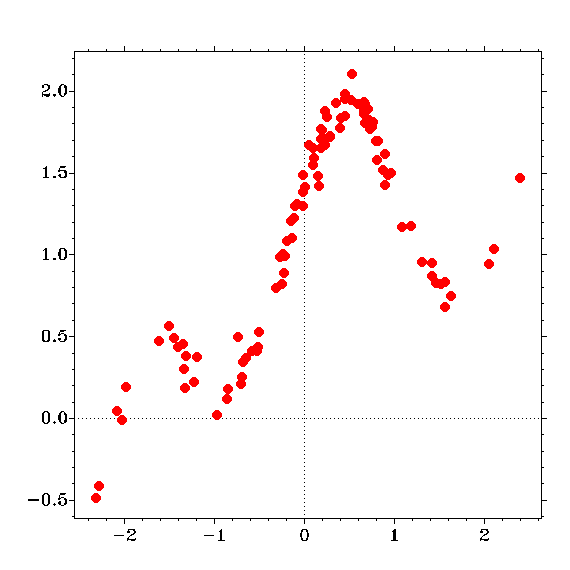
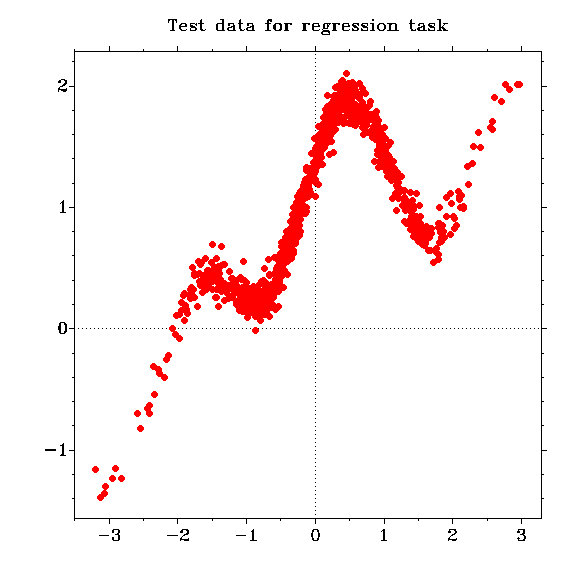
more updates for Ex-netgp-r.doc

diff --git a/doc/Ex-netgp-r.html b/doc/Ex-netgp-r.html
@@ -16,10 +16,10 @@ standard deviation 0.1 and mean given by
 
          0.3 + 0.4*x + 0.5*sin(2.7*x) + 1.1/(1+x^2)
 
-I generated 200 cases in total, stored in the file 'rdata'.  Each case
-consists of a line containing first the input value and then the
+I generated 1100 cases in total, stored in the file 'rdata'.  Each
+case consists of a line containing first the input value and then the
 target value.  The first 100 of these cases are meant for training,
-and the second 100 for testing.  The training cases are plotted in
+and the remaining 1000 for testing.  The training cases are plotted in
 <A HREF="rdata-train.png">rdata-train.png</A> and the test caes are plotted in <A HREF="rdata-test.png">rdata-test.png</A>.
 
 
@@ -59,8 +59,8 @@ hidden-to-output weights, and the output bias.
 In general, the prior specifications used in the net-spec command
 consist of a "width" value followed by up to three "alpha" values,
 with perhaps an option character tacked on to the front.  For the full
-details, see Appendix A of my thesis and <A HREF="prior.html">prior.doc</A>.  Here, I will just
-comment on the particular priors used above.
+details, see <A HREF="net-models.PDF">net-models.PDF</A> and <A HREF="prior.html">prior.doc</A>.  Here, I will just comment
+on the particular priors used above.
 
 The prior specification used for the output bias is simply "100",
 which means that the bias has a Gaussian prior with mean zero and
